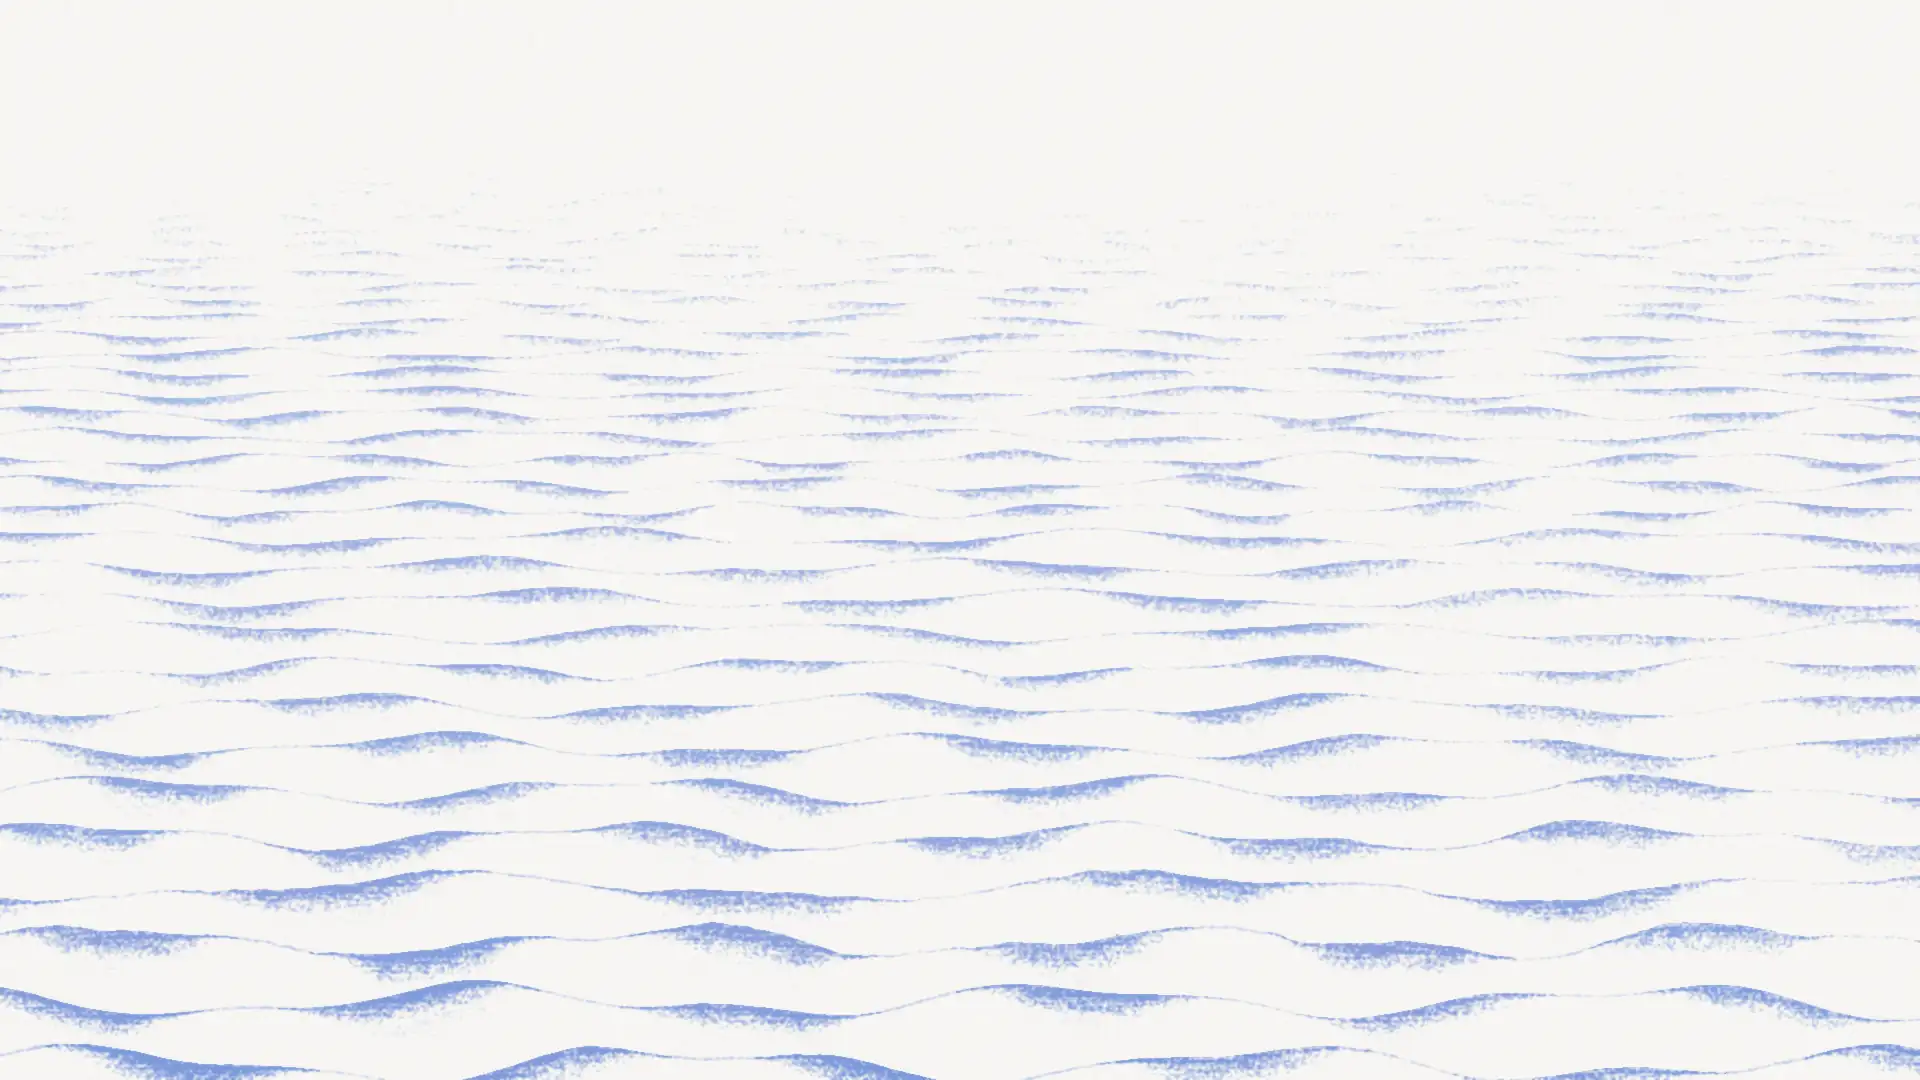
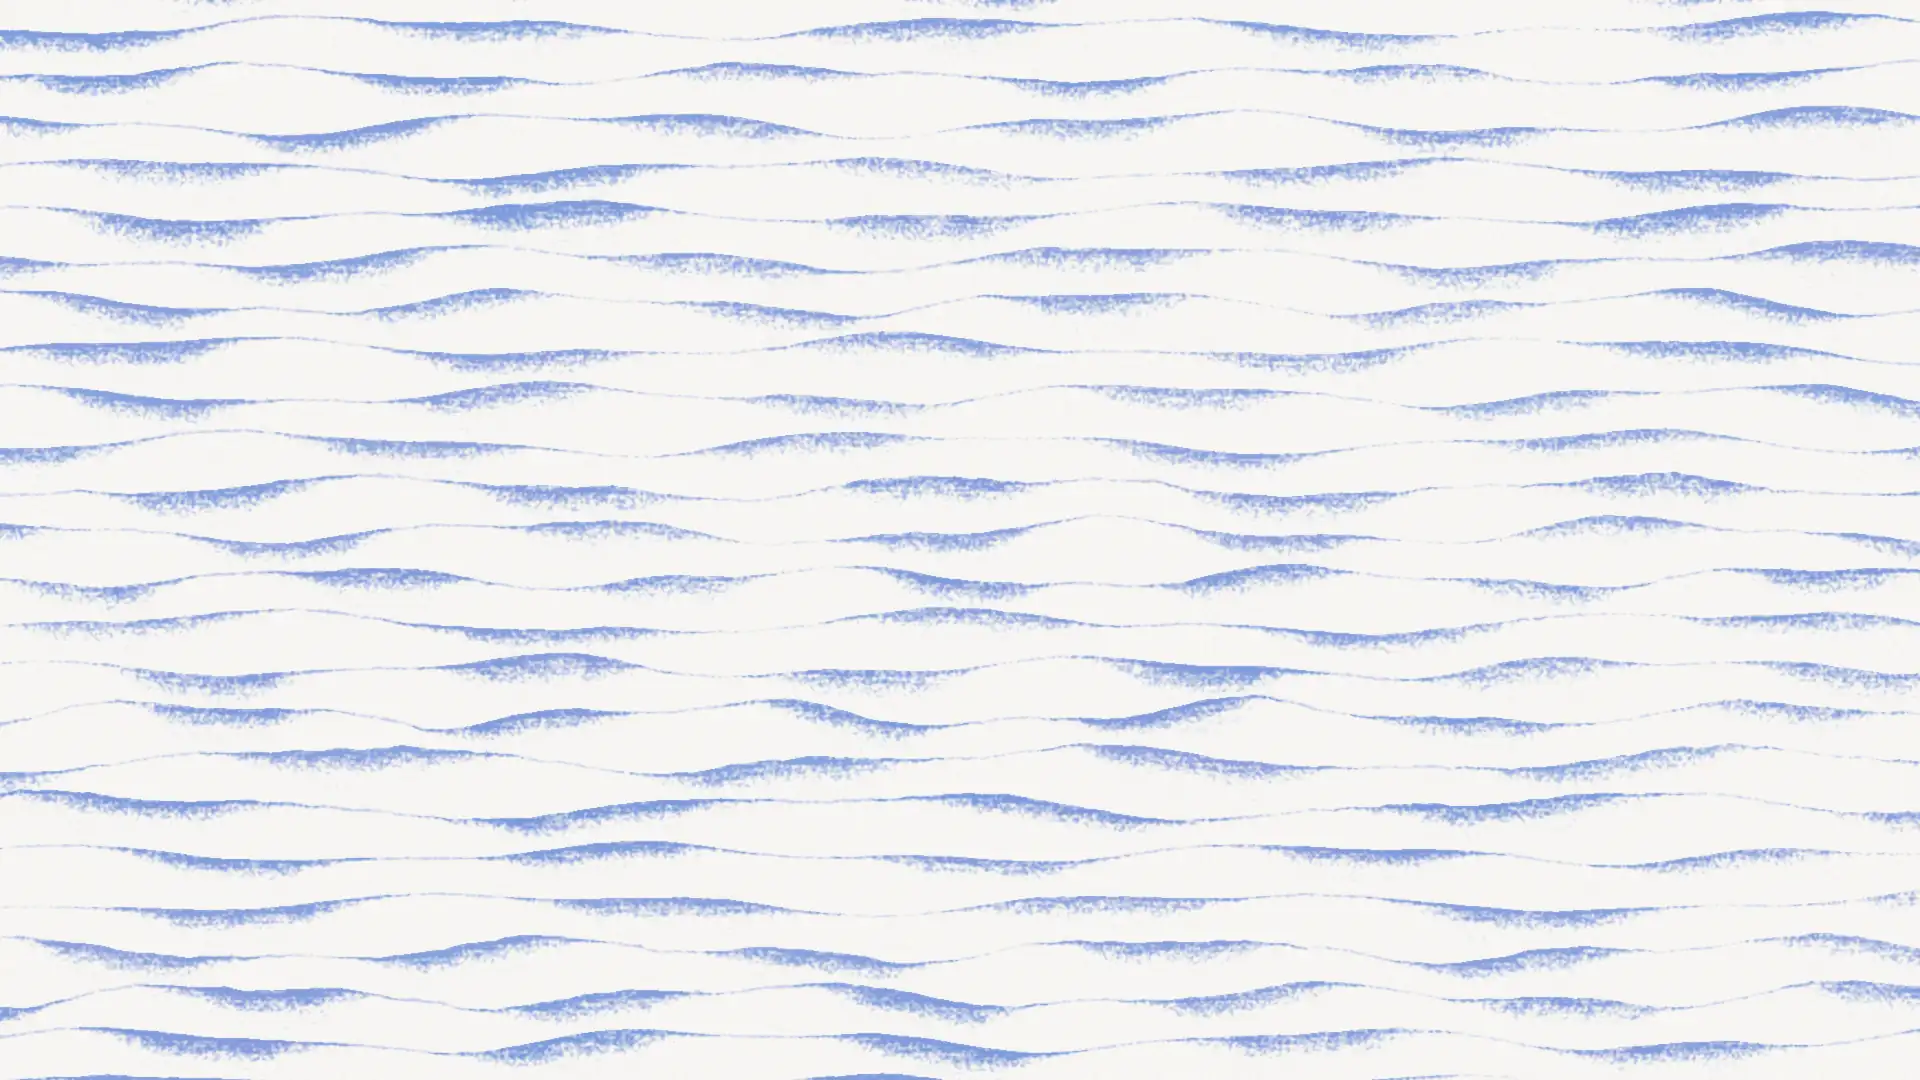
Hero: the pastel wave drawing at full strength, like the close-up
- Redrawn flat (no perspective / horizon fade): even rows of pastel
  waves across the whole image, matched to the close-up's spacing,
  wave height and stroke texture
- Shown at full strength; only a soft paper glow behind the headline,
  text and buttons keeps them readable (was a heavy veil)
- One 82 KB image for all sizes (phones tile it at 1100px wide)

Claude-Session: https://claude.ai/code/session_01NbMGeWVEzGgna2D3BYQ7QU

diff --git a/frontend/app/globals.css b/frontend/app/globals.css
@@ -8086,25 +8086,23 @@ html[data-theme="dark"] .t-item.on small {
 }
 
 /* =============================================================================================
-   HERO: a soft pastel drawing of a calm sea (white water, pastel blue under each crest, as if drawn
-   with a stylus pastel brush), faded into the paper background. Light mode only.
-   Image: public/hero/ocean.webp (generated by scripts/ocean.py; 58 KB, 32 KB on phones).
+   HERO: a soft pastel drawing of rows of waves (white water, pastel blue under each crest, as if
+   drawn with a stylus pastel brush). Light mode only.
+   Image: public/hero/ocean.webp (generated by scripts/ocean.py; 82 KB). Shown at full strength,
+   with only a soft paper glow behind the headline so the text stays readable.
    ============================================================================================= */
 html:not([data-theme="dark"]) .hero {
   background:
-    linear-gradient(180deg, rgb(var(--hero-bg-rgb)) 0%, rgba(var(--hero-bg-rgb), 0) 28%, rgba(var(--hero-bg-rgb), 0) 72%, rgb(var(--hero-bg-rgb)) 100%),
-    linear-gradient(90deg, rgba(var(--hero-bg-rgb), 0.86) 0%, rgba(var(--hero-bg-rgb), 0.78) 34%, rgba(var(--hero-bg-rgb), 0.3) 52%, rgba(var(--hero-bg-rgb), 0.3) 100%),
-    var(--grain) repeat,
-    url("/hero/ocean.webp") center 55% / cover no-repeat,
+    linear-gradient(180deg, rgba(var(--hero-bg-rgb), 0) 86%, rgb(var(--hero-bg-rgb)) 100%),
+    radial-gradient(50% 78% at 20% 52%, rgba(var(--hero-bg-rgb), 0.78), rgba(var(--hero-bg-rgb), 0) 100%),
+    url("/hero/ocean.webp") center / cover no-repeat,
     var(--hero-bg);
 }
 @media (max-width: 700px) {
   html:not([data-theme="dark"]) .hero {
     background:
-      linear-gradient(180deg, rgb(var(--hero-bg-rgb)) 0%, rgba(var(--hero-bg-rgb), 0) 22%, rgba(var(--hero-bg-rgb), 0) 80%, rgb(var(--hero-bg-rgb)) 100%),
-      linear-gradient(180deg, rgba(var(--hero-bg-rgb), 0.88) 0%, rgba(var(--hero-bg-rgb), 0.82) 30%, rgba(var(--hero-bg-rgb), 0.35) 48%, rgba(var(--hero-bg-rgb), 0.35) 100%),
-      var(--grain) repeat,
-      url("/hero/ocean-sm.webp") center 60% / cover no-repeat,
+      linear-gradient(180deg, rgba(var(--hero-bg-rgb), 0.78) 0%, rgba(var(--hero-bg-rgb), 0.7) 26%, rgba(var(--hero-bg-rgb), 0) 40%, rgba(var(--hero-bg-rgb), 0) 90%, rgb(var(--hero-bg-rgb)) 100%),
+      url("/hero/ocean.webp") center top / 1100px auto repeat-y,
       var(--hero-bg);
   }
 }

diff --git a/frontend/scripts/ocean.py b/frontend/scripts/ocean.py
@@ -1,4 +1,4 @@
-# Generates public/hero/ocean.webp and ocean-sm.webp: a soft pastel drawing of a calm sea, as if
+# Generates public/hero/ocean.webp: a soft pastel drawing of rows of waves, as if
 # drawn with a stylus pastel brush: white water, blue pastel strokes in the shadow under each crest,
 # uneven pressure, wobbly hand-drawn lines, and paper tooth showing through the pigment.
 # Run from frontend/:  python3 scripts/ocean.py public/hero   (needs numpy and Pillow)
@@ -35,15 +35,15 @@ def wobble(n, amp, step):
 ink = np.zeros((H, W), np.float32)
 depthmap = np.zeros((H, W), np.float32)
 x = np.arange(W, dtype=np.float32)
-y = 0.12 * H
+y = -20.0
 while y < H + 40:
-    t = min(1.0, y / H)
-    amp = 1.5 + 13 * t ** 1.4
-    k = rng.uniform(0.010, 0.016) / (0.35 + t)
+    t = 0.8 + 0.2 * rng.random()   # flat: every row drawn like the close-up rows
+    amp = 7 + 4 * rng.random()
+    k = rng.uniform(0.008, 0.013)
     p1, p2, p3 = rng.uniform(0, 6.28, 3)
     crest = y + amp * (np.sin(x * k + p1) + 0.45 * np.sin(x * k * 2.3 + p2))
     crest += wobble(W, 1.2 + 2.5 * t, 9)                       # hand-drawn wobble
-    thick = (4 + 26 * t ** 1.3) * np.clip(0.62 + 0.6 * np.sin(x * k * 1.7 + p2 + 1.3), 0.12, 1) ** 1.2
+    thick = (5 + 20 * t ** 1.3) * np.clip(0.62 + 0.6 * np.sin(x * k * 1.7 + p2 + 1.3), 0.12, 1) ** 1.2
     thick *= 0.8 + 0.4 * rng.random()
     # stroke pressure: rises in, swells, lifts off (ends of each crescent fade)
     pressure = np.clip(np.sin(x * k * 1.7 + p2 + 1.3) * 0.75 + 0.6, 0, 1) ** 0.7
@@ -56,10 +56,9 @@ while y < H + 40:
     wash = np.clip(1 - (d - 1) / 2.2, 0, 1) * (d >= 1) * 0.22 * pressure[None, :]
     ink = 1 - (1 - ink) * (1 - line) * (1 - wash)
     depthmap = np.where(body > 0.05, np.maximum(depthmap, t), depthmap)
-    y += 7 + 64 * t ** 1.5
+    y += 44 + 6 * rng.random()
 
 ink *= 0.7 + 0.5 * press_map                                   # uneven hand pressure
-ink *= np.clip((Y / H - 0.08) / 0.26, 0, 1) ** 1.2             # fade toward the horizon
 # pastel on paper: pigment catches the tooth, streaks follow the stroke
 cover = ink * (0.55 + 0.45 * streak)
 cover = np.clip((cover - (1 - tooth) * 0.55) / 0.45, 0, 1)
@@ -76,8 +75,8 @@ img = paper * (1 - cover[..., None]) + col * cover[..., None]
 img -= (1 - tooth[..., None]) * 6                              # paper texture everywhere
 im = Image.fromarray(np.clip(img, 0, 255).astype(np.uint8))
 im.save(os.path.join(OUT, "ocean.webp"), "WEBP", quality=60, method=6)
-im.resize((1200, 675), Image.LANCZOS).save(os.path.join(OUT, "ocean-sm.webp"), "WEBP", quality=60, method=6)
+
 if OUT == ".":
-    im.resize((960, 540), Image.LANCZOS).save("preview.png"); im.crop((700, 560, 1660, 1040)).save("preview-crop.png")
-for f in ["ocean.webp", "ocean-sm.webp"]:
+    im.resize((960, 540), Image.LANCZOS).save("preview.png"); im.crop((480, 300, 1440, 780)).save("preview-crop.png")
+for f in ["ocean.webp"]:
     print(f, os.path.getsize(os.path.join(OUT, f)) // 1024, "KB")
